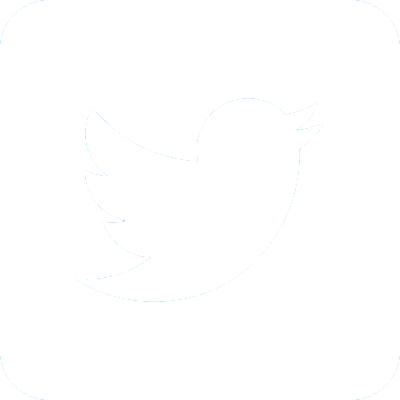
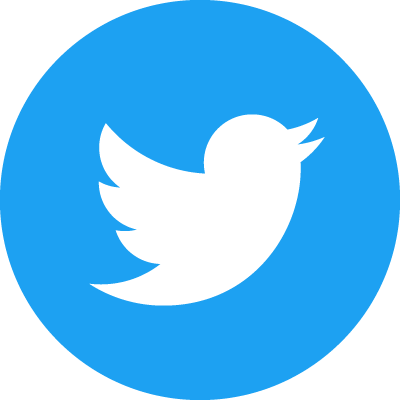
お問い合わせフォームっぽくなってきた

diff --git a/app/assets/stylesheets/styles.css b/app/assets/stylesheets/styles.css
@@ -158,7 +158,6 @@ a {
   z-index: 5;
   float: left;
   cursor: pointer;
-  margin-left: 250px;
 }
 
 .skill {
@@ -288,10 +287,28 @@ a {
   text-align: center;
 }
 
-.contact-rorm {
+.box-form {
   width: 1200px;
   height: 400px;
-  
+  margin-left: 250px;
+  background-color: rgb(50, 50, 50);
+  color: rgb(255, 255, 255);
+  text-align: center;
+}
+
+input {
+  width: 200px;
+}
+
+.contact-contents {
+  height: 70px;
+}
+
+/* social area */
+.git-hub, .twitter {
+  width: 100px;
+  height: 100px;
+  cursor: pointer;
 }
 
 /* footer */
@@ -299,6 +316,7 @@ a {
   width: 1680px;
   height: 80px;
   background-color: rgb(10, 10, 10);
+  margin-top: 630px;
 }
 
 .good-btn {
